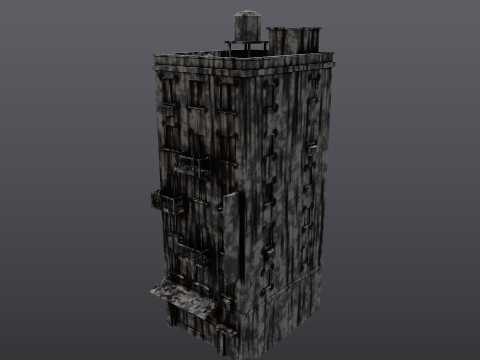
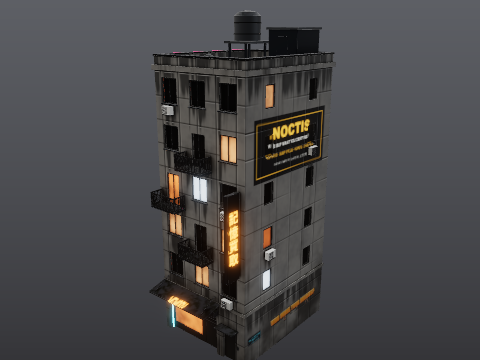
pigment: Town building sample opens the finished town project (scratch copy); gentler Grimy concrete; new sample preview

Changed region(s): [[0.3125, 0.0306, 0.6875, 1.0]]

diff --git a/crates/app/src/app/welcome.rs b/crates/app/src/app/welcome.rs
@@ -2,7 +2,7 @@
 //! drag and drop, recover unsaved work, or learn in two minutes.
 
 use super::design::{self as ds, font, icon, size, space, Btn, Icon, RichTip};
-use super::panels::decals::asset_file;
+use super::panels::decals::{asset_file, asset_roots};
 use super::prefs::Mode;
 use super::ui::LibItem;
 use super::*;
@@ -14,6 +14,9 @@ pub struct Sample {
     /// Under `assets/`: the first that exists; None = the built-in crate.
     pub mesh: Option<&'static [&'static str]>,
     pub material: LibItemSpec,
+    /// A finished Pigment project (repo-relative) to open instead, when this install has it.
+    /// It is copied to a scratch folder first, so saving never overwrites the original.
+    pub project: Option<&'static str>,
 }
 
 pub enum LibItemSpec {
@@ -22,13 +25,36 @@ pub enum LibItemSpec {
 }
 
 pub const SAMPLES: [Sample; 5] = [
-    Sample { id: "crate", title: "Supply crate", blurb: "Worn paint with edge wear and dirt", mesh: None, material: LibItemSpec::Smart("Worn teal paint metal") },
-    Sample { id: "vending", title: "Vending machine", blurb: "Painted metal, glass and buttons", mesh: Some(&["vending_machine.glb"]), material: LibItemSpec::Smart("Worn red paint metal") },
-    Sample { id: "building", title: "Town building", blurb: "Concrete with leaks and grime", mesh: Some(&["town/building_a.glb"]), material: LibItemSpec::Smart("Grimy concrete") },
+    Sample { id: "crate", title: "Supply crate", blurb: "Worn paint with edge wear and dirt", mesh: None, material: LibItemSpec::Smart("Worn teal paint metal"), project: None },
+    Sample { id: "vending", title: "Vending machine", blurb: "Painted metal, glass and buttons", mesh: Some(&["vending_machine.glb"]), material: LibItemSpec::Smart("Worn red paint metal"), project: None },
+    Sample { id: "building", title: "Town building", blurb: "Glass, lit windows, signs and rain stains", mesh: Some(&["town/building_a.glb"]), material: LibItemSpec::Smart("Grimy concrete"), project: Some("scenes/town/projects/building_a.pigment") },
     // the paintable car body is regenerated by tools/car (the exported car.glb has no UVs)
-    Sample { id: "car", title: "Car", blurb: "Clearcoat car paint with flake", mesh: Some(&["vehicles/hayate/src/hayate_body.glb", "car/src/car_body.glb"]), material: LibItemSpec::Preset("Metallic flake paint") },
-    Sample { id: "jerry_can", title: "Jerry can", blurb: "Olive drab, scuffed edges", mesh: Some(&["jerry_can.glb"]), material: LibItemSpec::Smart("Worn olive drab metal") },
+    Sample { id: "car", title: "Car", blurb: "Clearcoat car paint with flake", mesh: Some(&["vehicles/hayate/src/hayate_body.glb", "car/src/car_body.glb"]), material: LibItemSpec::Preset("Metallic flake paint"), project: None },
+    Sample { id: "jerry_can", title: "Jerry can", blurb: "Olive drab, scuffed edges", mesh: Some(&["jerry_can.glb"]), material: LibItemSpec::Smart("Worn olive drab metal"), project: None },
 ];
+
+/// A sample's finished project, if this install has it.
+pub fn sample_project(s: &Sample) -> Option<PathBuf> {
+    let rel = s.project?;
+    asset_roots().into_iter().map(|r| r.join(rel)).find(|p| p.join("project.json").is_file())
+}
+
+/// Copy a project folder to a scratch place so the original stays untouched.
+fn scratch_copy(src: &Path, name: &str) -> std::io::Result<PathBuf> {
+    fn copy(a: &Path, b: &Path) -> std::io::Result<()> {
+        std::fs::create_dir_all(b)?;
+        for e in std::fs::read_dir(a)? {
+            let e = e?;
+            let to = b.join(e.file_name());
+            if e.file_type()?.is_dir() { copy(&e.path(), &to)? } else { std::fs::copy(e.path(), &to).map(|_| ())? }
+        }
+        Ok(())
+    }
+    let dst = std::env::temp_dir().join("pigment-samples").join(format!("{name}.pigment"));
+    let _ = std::fs::remove_dir_all(&dst);
+    copy(src, &dst)?;
+    Ok(dst)
+}
 
 /// Where a sample's model is, if this install has it.
 pub fn sample_mesh(s: &Sample) -> Option<PathBuf> {
@@ -43,6 +69,19 @@ pub fn available_samples() -> Vec<usize> {
 impl PigmentApp {
     /// Open a sample model with its material applied, ready to paint.
     pub(super) fn open_sample(&mut self, rs: &RenderState, s: &Sample) {
+        if let Some(src) = sample_project(s) {
+            match scratch_copy(&src, s.id) {
+                Ok(p) => {
+                    self.run_pending_ui(rs, Pending::OpenProject(p));
+                    self.project_dir = None;           // Save asks where: the sample copy is scratch
+                    self.export_name = s.title.split(' ').map(|w| w[..1].to_uppercase() + &w[1..]).collect();
+                    self.ui.welcome = false;
+                    self.set_status(format!("{}: a finished town building. Paint on it, swap materials, or export with Ctrl+E.", s.title), false);
+                    return;
+                }
+                Err(e) => self.notify_error("Sample", &format!("could not copy the sample project: {e}")),
+            }
+        }
         match s.mesh {
             None => self.run_pending_ui(rs, Pending::Demo),
             Some(rel) => {

diff --git a/crates/core/src/document.rs b/crates/core/src/document.rs
@@ -875,12 +875,16 @@ impl Document {
             }
             "Grimy concrete" => {
                 let base = self.fill_with("Concrete", "Concrete", None);
-                let mut blotch = self.fill_with("Damp patches", "Wet concrete", Some(g(Grunge).with(0.5, 2.0)));
+                // subtle on purpose: on a big model (a whole building) full-strength grime reads as soot
+                let mut blotch = self.fill_with("Damp patches", "Wet concrete", Some(g(Grunge).with(0.35, 2.0)));
                 only(&mut blotch, &[Channel::BaseColor, Channel::Roughness]);
-                let leaks = self.fill_with("Leaks", "Grime", Some(g(Streaks).with(0.45, 5.0)));
+                blotch.opacity = 0.55;
+                let mut leaks = self.fill_with("Leaks", "Grime", Some(g(Streaks).with(0.25, 5.0)));
+                leaks.opacity = 0.45;
                 let mut dirt = g(Dirt);
-                dirt.amount = 0.6;
-                let grime = self.fill_with("Grime", "Grime", Some(dirt));
+                dirt.amount = 0.35;
+                let mut grime = self.fill_with("Grime", "Grime", Some(dirt));
+                grime.opacity = 0.6;
                 vec![base, blotch, leaks, grime]
             }
             "Tech panels" => {

diff --git a/crates/app/src/app/panels/decals.rs b/crates/app/src/app/panels/decals.rs
@@ -18,7 +18,7 @@ pub fn asset_file(rel: &str) -> Option<PathBuf> {
     asset_roots().into_iter().map(|r| r.join("assets").join(rel)).find(|p| p.is_file())
 }
 
-fn asset_roots() -> Vec<PathBuf> {
+pub(crate) fn asset_roots() -> Vec<PathBuf> {
     let mut roots: Vec<PathBuf> = vec![];
     if let Ok(c) = std::env::current_dir() {
         roots.extend(c.ancestors().map(Path::to_path_buf));
